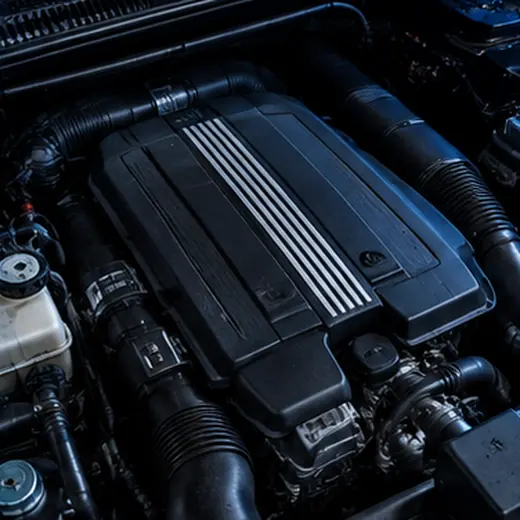
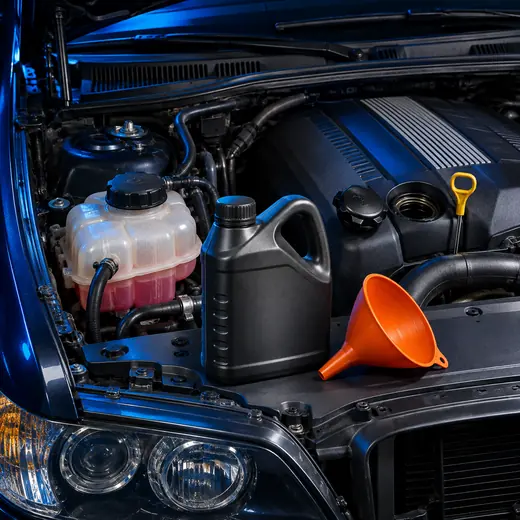
Miniatury części i narzędzi z planszy 8×8, kafel Przeglądy i płyny
Claude-Session: https://claude.ai/code/session_01MBC5hNd6Y88i3H4KXZj5bA

diff --git a/sw.js b/sw.js
@@ -1,8 +1,8 @@
 // Service worker: aplikacja działa offline po pierwszym wejściu.
 // Lista plików i wersja są aktualizowane przez tools/build.py (nie edytuj ręcznie między znacznikami).
 const OFFLINE = 'offline-24h';
-const VERSION = 'warsztat-/*V*/11f1ebcd46/*ENDV*/';
-const FILES = /*FILES*/["./", "css/app.css", "data/packs/bmw-e53/catalog.json", "data/packs/bmw-e53/pack.json", "data/packs/bmw-e53/repairs/klamka-wewn.json", "data/packs/bmw-e53/repairs/klamka-zewn-przod.json", "data/packs/bmw-e53/repairs/klamka-zewn-tyl.json", "data/packs/bmw-e53/repairs/lusterko-szklo.json", "data/packs/bmw-e53/repairs/lusterko-wymiana.json", "data/packs/bmw-e53/repairs/okno-podnosnik-przod.json", "data/packs/bmw-e53/repairs/okno-podnosnik-tyl.json", "data/packs/bmw-e53/repairs/okno-silnik.json", "data/packs/bmw-e53/repairs/okno-szyba.json", "data/packs/bmw-e53/repairs/silownik-zamka-przod.json", "data/packs/bmw-e53/repairs/tapicerka-przod.json", "data/packs/bmw-e53/repairs/tapicerka-tyl.json", "data/packs/bmw-e53/repairs/uszczelka-obwodowa.json", "data/packs/bmw-e53/repairs/uszczelka-szyby.json", "data/packs.json", "eslint.config.mjs", "icons/apple-touch-icon.png", "icons/icon-192.png", "icons/icon-512.png", "icons/icon-maskable-512.png", "img/doors/e53-front-r.webp", "img/doors/e53-front.webp", "img/doors/e53-rear-r.webp", "img/doors/e53-rear.webp", "img/ui/garaz-e53.webp", "img/ui/start-e53.webp", "img/ui/studio.webp", "img/x5-e53.webp", "img/zones/e53-doors.webp", "img/zones/e53-hood.webp", "img/zones/e53-interior.webp", "img/zones/e53-service.webp", "img/zones/e53-tail.webp", "img/zones/e53-under.webp", "img/zones/e53-wheels.webp", "index.html", "js/art-car.js", "js/art-door.js", "js/backup.js", "js/book-ui.js", "js/catalog.js", "js/data.js", "js/icons.js", "js/install.js", "js/logo.js", "js/main.js", "js/media.js", "js/merge.js", "js/offline-ui.js", "js/offline.js", "js/photos.js", "js/plan.js", "js/prefs.js", "js/router.js", "js/safety.js", "js/screens/add.js", "js/screens/book.js", "js/screens/car.js", "js/screens/garage.js", "js/screens/home.js", "js/screens/more.js", "js/screens/plan.js", "js/screens/repair.js", "js/screens/repairs.js", "js/screens/search.js", "js/screens/sources.js", "js/screens/sync.js", "js/screens/sys.js", "js/screens/zone.js", "js/search.js", "js/spin.js", "js/store.js", "js/timer-core.js", "js/timer.js", "js/ui.js", "js/vendor/jsqr.LICENSE", "js/vendor/jsqr.js", "js/vendor/qrcode.js", "js/zones-art.js", "manifest.webmanifest"]/*ENDFILES*/;
+const VERSION = 'warsztat-/*V*/088afa30e0/*ENDV*/';
+const FILES = /*FILES*/["./", "css/app.css", "data/packs/bmw-e53/catalog.json", "data/packs/bmw-e53/pack.json", "data/packs/bmw-e53/repairs/klamka-wewn.json", "data/packs/bmw-e53/repairs/klamka-zewn-przod.json", "data/packs/bmw-e53/repairs/klamka-zewn-tyl.json", "data/packs/bmw-e53/repairs/lusterko-szklo.json", "data/packs/bmw-e53/repairs/lusterko-wymiana.json", "data/packs/bmw-e53/repairs/okno-podnosnik-przod.json", "data/packs/bmw-e53/repairs/okno-podnosnik-tyl.json", "data/packs/bmw-e53/repairs/okno-silnik.json", "data/packs/bmw-e53/repairs/okno-szyba.json", "data/packs/bmw-e53/repairs/silownik-zamka-przod.json", "data/packs/bmw-e53/repairs/tapicerka-przod.json", "data/packs/bmw-e53/repairs/tapicerka-tyl.json", "data/packs/bmw-e53/repairs/uszczelka-obwodowa.json", "data/packs/bmw-e53/repairs/uszczelka-szyby.json", "data/packs.json", "eslint.config.mjs", "icons/apple-touch-icon.png", "icons/icon-192.png", "icons/icon-512.png", "icons/icon-maskable-512.png", "img/czesci.webp", "img/doors/e53-front-r.webp", "img/doors/e53-front.webp", "img/doors/e53-rear-r.webp", "img/doors/e53-rear.webp", "img/ui/garaz-e53.webp", "img/ui/start-e53.webp", "img/ui/studio.webp", "img/x5-e53.webp", "img/zones/e53-doors.webp", "img/zones/e53-hood.webp", "img/zones/e53-interior.webp", "img/zones/e53-service.webp", "img/zones/e53-tail.webp", "img/zones/e53-under.webp", "img/zones/e53-wheels.webp", "index.html", "js/art-car.js", "js/art-door.js", "js/backup.js", "js/book-ui.js", "js/catalog.js", "js/data.js", "js/icons.js", "js/install.js", "js/logo.js", "js/main.js", "js/media.js", "js/merge.js", "js/offline-ui.js", "js/offline.js", "js/photos.js", "js/plan.js", "js/prefs.js", "js/router.js", "js/safety.js", "js/screens/add.js", "js/screens/book.js", "js/screens/car.js", "js/screens/garage.js", "js/screens/home.js", "js/screens/more.js", "js/screens/plan.js", "js/screens/repair.js", "js/screens/repairs.js", "js/screens/search.js", "js/screens/sources.js", "js/screens/sync.js", "js/screens/sys.js", "js/screens/zone.js", "js/search.js", "js/spin.js", "js/store.js", "js/thumbs.js", "js/timer-core.js", "js/timer.js", "js/ui.js", "js/vendor/jsqr.LICENSE", "js/vendor/jsqr.js", "js/vendor/qrcode.js", "js/zones-art.js", "manifest.webmanifest"]/*ENDFILES*/;
 
 self.addEventListener('install', e => {
   e.waitUntil(caches.open(VERSION).then(c => Promise.all(FILES.map(f => fetch(new Request(f, { cache: 'reload' })).then(r => { if (!r.ok) throw new Error(f); return c.put(f, r); })))).then(() => self.skipWaiting()));

diff --git a/js/screens/plan.js b/js/screens/plan.js
@@ -4,6 +4,7 @@ import { bindOffline, offlineCardHtml } from '../offline-ui.js';
 import { icon } from '../icons.js';
 import { getPack, getRepair, matchPack } from '../data.js';
 import { aggregatePlan, orderHint, planText } from '../plan.js';
+import { THUMB_NOTE, thumb } from '../thumbs.js';
 import * as S from '../store.js';
 
 /* ---------- DZISIAJ ROBIĘ: wybór kilku napraw → jedna lista zakupów i narzędzi ---------- */
@@ -41,9 +42,10 @@ async function planScreen() {
       ${hint ? `<div class="note info" style="margin-top:12px">${icon('info', 22)}<div><b>Kolejność prac</b><p>${esc(hint)}</p></div></div>` : ''}
       ${repairs.length ? `
       <div class="section-h">${icon('list', 16)} Lista zakupów <span class="count">${agg.parts.filter(p => bought[p.oe || p.name]).length} z ${agg.parts.length}</span></div>
-      <div class="card"><div class="kv">${agg.parts.map(p => `<div class="plpart shop ${bought[p.oe || p.name] ? 'done' : ''}"><button class="cbox" data-buy="${esc(p.oe || p.name)}" role="checkbox" aria-checked="${!!bought[p.oe || p.name]}" aria-label="Kupione: ${esc(p.name)}">${icon('check', 16)}</button><span><b>${esc(p.name)}</b><small>${p.oe ? esc(p.oe.replace(/(\d{2})(\d{2})(\d)(\d{3})(\d{3})/, '$1 $2 $3 $4 $5')) : 'numer do potwierdzenia po VIN'}${p.from.length > 1 ? ' · potrzebne w ' + p.from.length + ' naprawach' : ''}</small></span>${p.oe ? `<button class="btn small" data-copy="${esc(p.oe)}">${icon('copy', 14)}</button>` : ''}</div>`).join('') || '<div class="pad" style="padding:14px;color:var(--muted)">Brak części na liście.</div>'}</div></div>
+      <div class="card"><div class="kv">${agg.parts.map(p => `<div class="plpart shop ${bought[p.oe || p.name] ? 'done' : ''}"><button class="cbox" data-buy="${esc(p.oe || p.name)}" role="checkbox" aria-checked="${!!bought[p.oe || p.name]}" aria-label="Kupione: ${esc(p.name)}">${icon('check', 16)}</button>${thumb(p.name)}<span><b>${esc(p.name)}</b><small>${p.oe ? esc(p.oe.replace(/(\d{2})(\d{2})(\d)(\d{3})(\d{3})/, '$1 $2 $3 $4 $5')) : 'numer do potwierdzenia po VIN'}${p.from.length > 1 ? ' · potrzebne w ' + p.from.length + ' naprawach' : ''}</small></span>${p.oe ? `<button class="btn small" data-copy="${esc(p.oe)}">${icon('copy', 14)}</button>` : ''}</div>`).join('') || '<div class="pad" style="padding:14px;color:var(--muted)">Brak części na liście.</div>'}</div></div>
       <div class="section-h">${icon('wrench', 16)} Narzędzia <span class="count">${agg.tools.length}</span></div>
-      <div class="card"><div class="kv">${agg.tools.map(t => `<div class="plpart"><span><b>${esc(t.name)}</b><small>${esc(t.note || '')}</small></span><span class="need ${t.need}">${needLbl[t.need] || ''}</span></div>`).join('')}</div></div>
+      <div class="card"><div class="kv">${agg.tools.map(t => `<div class="plpart">${thumb(t.name)}<span class="pgrow"><b>${esc(t.name)}</b><small>${esc(t.note || '')}</small></span><span class="need ${t.need}">${needLbl[t.need] || ''}</span></div>`).join('')}</div></div>
+      <p class="foot">${THUMB_NOTE}</p>
       <button class="btn block" id="pl-copy" style="margin-top:12px">${icon('copy', 18)} Kopiuj całą listę</button>
       ${offlineCardHtml('plan na dziś')}
       <button class="btn ghost block" id="pl-clear">Wyczyść plan</button>` : ''}

diff --git a/js/screens/repair.js b/js/screens/repair.js
@@ -10,6 +10,7 @@ import { openTimerSheet, suggestMinutes } from '../timer.js';
 import { addPhoto, compressImage, deletePhoto, hasDB, listPhotos } from '../photos.js';
 import { openEntrySheet } from '../book-ui.js';
 import { safetyItems } from '../safety.js';
+import { THUMB_NOTE, thumb } from '../thumbs.js';
 import * as S from '../store.js';
 
 let deckSeq = 0; // numer ostatnio zamontowanej talii (stare nasłuchy nie mogą wyłączać zasobów nowej)
@@ -79,14 +80,15 @@ async function repairScreen(carId, rid, q) {
   cards.push({ label: 'Narzędzia', html: `
     <div class="dk-meta"><span class="dk-pill">Przygotowanie</span><span class="dk-pill" id="toolcount"></span></div>
     <h2 class="dk-h2">Narzędzia do odhaczenia</h2>
-    <div class="dk-checks" id="tools">${rep.tools.map((t, i) => `<button class="dk-check ${prog.tools[i] ? 'done' : ''}" data-tool="${i}" role="checkbox" aria-checked="${!!prog.tools[i]}"><span class="cbox">${icon('check', 16)}</span><span class="cname"><b>${esc(t.name)}</b>${t.note ? `<small>${esc(t.note)}</small>` : ''}</span><span class="need ${t.need}">${needLbl[t.need] || ''}</span></button>`).join('')}</div>` });
+    <div class="dk-checks" id="tools">${rep.tools.map((t, i) => `<button class="dk-check ${prog.tools[i] ? 'done' : ''}" data-tool="${i}" role="checkbox" aria-checked="${!!prog.tools[i]}"><span class="cbox">${icon('check', 16)}</span>${thumb(t.name)}<span class="cname"><b>${esc(t.name)}</b>${t.note ? `<small>${esc(t.note)}</small>` : ''}</span><span class="need ${t.need}">${needLbl[t.need] || ''}</span></button>`).join('')}</div>` });
 
   if ((rep.parts || []).length) cards.push({ label: 'Części', html: `
     <div class="dk-meta"><span class="dk-pill">Przygotowanie</span></div>
     <h2 class="dk-h2">Części do kupienia</h2>
-    <div class="dk-parts">${rep.parts.map(p => { const c = CONF[p.conf] || CONF.low; return `<div class="dk-part"><div class="ph"><b>${esc(p.name)}</b><span class="conf ${c[0]}"><i></i>${p.conf === 'high' ? 'Potwierdzone' : p.conf === 'med' ? 'Jedno źródło' : 'Do sprawdzenia'}</span></div>
+    <div class="dk-parts">${rep.parts.map(p => { const c = CONF[p.conf] || CONF.low; return `<div class="dk-part"><div class="ph">${thumb(p.name)}<b>${esc(p.name)}</b><span class="conf ${c[0]}"><i></i>${p.conf === 'high' ? 'Potwierdzone' : p.conf === 'med' ? 'Jedno źródło' : 'Do sprawdzenia'}</span></div>
       ${p.oe ? `<div class="oe"><code>${esc(p.oe.replace(/(\d{2})(\d{2})(\d)(\d{3})(\d{3})/, '$1 $2 $3 $4 $5'))}</code><button class="btn small" data-copy="${esc(p.oe)}">${icon('copy', 15)} Kopiuj</button></div>` : '<div class="oe"><small>Numer do potwierdzenia po VIN</small></div>'}
       <p>${esc(p.note || '')}${p.price ? ` <em>${esc(p.price)}</em>` : ''}</p>${p.alt ? `<p class="alts">${p.alt.map(a => `${esc(a.brand)} ${esc(a.no)}`).join(' · ')}</p>` : ''}</div>`; }).join('')}</div>
+    <p class="dk-foot">${THUMB_NOTE}</p>
     <button class="btn block" id="shop">${icon('copy', 18)} Kopiuj listę części i narzędzi</button>` });
 
   if (films.length) cards.push({ label: 'Filmy', html: `

diff --git a/js/screens/repairs.js b/js/screens/repairs.js
@@ -3,6 +3,7 @@ import { $$, copy, dots, esc, fmtTime, topbar } from '../ui.js';
 import { icon } from '../icons.js';
 import { getCatalog, getPack, getRepair, matchPack } from '../data.js';
 import { aggregatePlan } from '../plan.js';
+import { THUMB_NOTE, thumb } from '../thumbs.js';
 import * as S from '../store.js';
 
 /* ---------- NAPRAWY: lista kart, części z całej paczki, katalog stref ---------- */
@@ -28,7 +29,7 @@ async function repairsScreen(q) {
     const reps = (await Promise.all(pack.repairs.map(r => getRepair(pack.id, r.id).catch(() => null)))).filter(Boolean);
     const { parts } = aggregatePlan(reps);
     count = `${parts.length} pozycji`;
-    body = `<div class="card"><div class="kv">${parts.map(p => `<div class="plpart"><span class="zi">${icon('part', 18)}</span><span class="pgrow"><b>${esc(p.name)}</b><small>${p.oe ? esc(fmtOe(p.oe)) : 'numer do potwierdzenia po VIN'}${p.from.length > 1 ? ' · w ' + p.from.length + ' naprawach' : ''}</small></span>${p.oe ? `<button class="btn small" data-copy="${esc(p.oe)}" aria-label="Kopiuj numer">${icon('copy', 14)}</button>` : ''}</div>`).join('')}</div></div><p class="foot">Numery bez potwierdzenia sprawdź po VIN przed zakupem. Poziom pewności każdej części jest na karcie naprawy.</p>`;
+    body = `<div class="card"><div class="kv">${parts.map(p => `<div class="plpart">${thumb(p.name) || `<span class="zi">${icon('part', 18)}</span>`}<span class="pgrow"><b>${esc(p.name)}</b><small>${p.oe ? esc(fmtOe(p.oe)) : 'numer do potwierdzenia po VIN'}${p.from.length > 1 ? ' · w ' + p.from.length + ' naprawach' : ''}</small></span>${p.oe ? `<button class="btn small" data-copy="${esc(p.oe)}" aria-label="Kopiuj numer">${icon('copy', 14)}</button>` : ''}</div>`).join('')}</div></div><p class="foot">Numery bez potwierdzenia sprawdź po VIN przed zakupem. Poziom pewności każdej części jest na karcie naprawy. ${THUMB_NOTE}</p>`;
   } else {
     const cat = await getCatalog(pack.id);
     count = `${cat.zones.reduce((n, z) => n + z.groups.reduce((m, g) => m + g.items.length, 0), 0)} pozycji`;

diff --git a/js/thumbs.js b/js/thumbs.js
@@ -1,0 +1,22 @@
+// Miniatury części i narzędzi: plansza 8×8 img/czesci.webp (kolejność pól: docs/projekt-graficzny/PLANSZE.md).
+// To ilustracje poglądowe, nie zdjęcia konkretnych części.
+const RULES = [
+  [/tuleja/i, 8], [/klamk\w* wewn|zamiennik uro/i, 0], [/mechanizm klamki/i, 2], [/klamka zewn/i, 1],
+  [/klips\w* listwy|klipsy uszczelki/i, 14], [/klips\w* szyby/i, 7], [/spink/i, 3],
+  [/szkło lusterka/i, 4], [/lusterko/i, 5], [/silnik podno/i, 10], [/podnośnik szyby/i, 6],
+  [/folia|pasta uszcz/i, 9], [/śruba sześciok/i, 11], [/siłownik zamka/i, 12],
+  [/uszczelka szczeliny/i, 16], [/listwa szczeliny/i, 17], [/uszczelka drzwi/i, 13], [/listwa progowa/i, 15],
+  [/kształcie litery u/i, 26], [/plastikowe łopatki/i, 18], [/łopatk\w* metal|metalowa łopatka/i, 33],
+  [/szerokie płaskie/i, 29], [/torx/i, 19], [/klucz nasadowy|klucz 8 mm/i, 20], [/taśma/i, 21],
+  [/opaska/i, 24], [/szczypce/i, 32], [/magnes/i, 28], [/śrubokręt|wkrętak/i, 22], [/sznurek/i, 23],
+  [/ostrze|nóż/i, 25], [/imbus/i, 27], [/ścierecz|szmat|ręcznik/i, 30], [/multimetr/i, 31],
+  [/młotek/i, 34], [/mydłem/i, 35], [/terpentyn/i, 36]
+];
+export function thumbCell(name) { const r = RULES.find(([re]) => re.test(name || '')); return r ? r[1] : -1; }
+export function thumb(name) {
+  const n = thumbCell(name);
+  if (n < 0) return '';
+  const pos = c => (c * 100 / 7).toFixed(3) + '%';
+  return `<span class="th" role="img" aria-label="Ilustracja poglądowa" style="background-position:${pos(n % 8)} ${pos(Math.floor(n / 8))}"></span>`;
+}
+export const THUMB_NOTE = 'Miniatury to ilustracje poglądowe, nie zdjęcia tej konkretnej części. Przy zakupie liczy się numer części.';

diff --git a/css/app.css b/css/app.css
@@ -1054,3 +1054,11 @@ body.in-deck #timerpill { top: auto; bottom: calc(var(--sab) + 96px); }
 .hs.photo .hs-stage { height: calc(var(--hw) * 1.29 - 196px); }
 .sys.pic:last-child:nth-child(3n+1) { grid-column: 1 / -1; aspect-ratio: 3 / 1; background-position: center 60%; }
 .sys.pic::before { background: linear-gradient(to top, rgba(8,19,33,.96) 26%, rgba(8,19,33,.12) 70%); }
+
+/* miniatury części i narzędzi (plansza 8×8) */
+.th { display: block; flex: none; width: 44px; height: 44px; border-radius: 10px; background: #0a1626 url(../img/czesci.webp) 0 0 / 800% 800% no-repeat; border: 1px solid rgba(148,190,240,.18); }
+.plpart { gap: 12px; } .plpart > span:not(.th):not(.zi):not(.need) { flex: 1; min-width: 0; }
+.dk-part .ph { align-items: center; justify-content: flex-start; gap: 10px; } .dk-part .ph b { flex: 1; min-width: 0; }
+.dk-check .th { width: 40px; height: 40px; }
+.plpart.shop > span.th { flex: none; width: 44px; }
+.plpart.shop > span:not(.th) { flex: 1; min-width: 0; }

diff --git a/KONTYNUACJA.md b/KONTYNUACJA.md
@@ -35,7 +35,7 @@ js/spin.js, art-car.js                    widok 360° auta i kropki stref
 js/vendor/                                qrcode, jsqr (nie ruszać, lint je pomija)
 data/packs/bmw-e53/                       pack.json (źródła, indeks napraw), catalog.json (strefy, grupy, pozycje), repairs/*.json (karty napraw)
 img/                                      klatki 360° (img/spin), zdjęcia drzwi (img/doors), ikony
-tests/*.test.mjs                          testy Node (27)
+tests/*.test.mjs                          testy Node (30)
 tools/build.py, smoke.py, lint.sh         walidacja i testy
 docs/                                     dokumentacja (status, standard, architektura, diagnostyka)
 docs/diag/                                szkielet schematu diagnostyki i słownik objawów (jeszcze niepodłączone do aplikacji)
@@ -64,7 +64,7 @@ Właściciel jest wymagający i konkretny. Pisze po polsku. Te zasady powtarzał
 **Adres:** https://lewym90.github.io/warsztat/. Ostatnie commity: `40fc9e5` (ekran Źródła), `4dfda95` (7 nowych kart Drzwi, opisy katalogu, szkielet diagnostyki).
 
 ### 3.0 Szata graficzna WARSZTAT (2026-11-04)
-Projekt właściciela: `docs/projekt-graficzny/` (specyfikacja, projekt ekranów, źródło ikony). Styl Dark Luxury: ciemny motyw domyślny (migracja `prefs.skin`), jasny i auto do wyboru. Paleta w tokenach na początku `css/app.css`, warstwa projektowa na końcu pliku. Ekrany: Start (`js/screens/home.js`, trasa `#/`), Garaż przeniesiony na `#/garage`, Naprawy z zakładkami Naprawy/Części/Katalog i Diagnostyka (`js/screens/repairs.js`), lista zakupów z odhaczaniem w planie (`plan.bought`). Dolna nawigacja: Start, Auto, Naprawy, Plan, Więcej. Auto bieżące: `S.currentCar()`. Przycisk „Zalicz krok” tylko przesuwa talię (postęp nadal = pozycja talii). Grafiki (generowane przez właściciela): `img/ui/` (Start, garaż, studio 360°), `img/zones/` (kafle stref, mapa w `js/zones-art.js`); klatki 360° mają wycięte tło (przezroczyste webp). Kafel Przeglądy to tymczasowo wycinek zdjęcia silnika. Prompty plansz: `docs/projekt-graficzny/PLANSZE.md`. Miniatury części (plansza 8×8) czekają na grafikę właściciela i mają być podpisane jako ilustracje poglądowe. Z makiety świadomie NIE przeniesiono: procentów pewności, numerów części i naprawy filtra paliwa (dane poglądowe bez źródeł).
+Projekt właściciela: `docs/projekt-graficzny/` (specyfikacja, projekt ekranów, źródło ikony). Styl Dark Luxury: ciemny motyw domyślny (migracja `prefs.skin`), jasny i auto do wyboru. Paleta w tokenach na początku `css/app.css`, warstwa projektowa na końcu pliku. Ekrany: Start (`js/screens/home.js`, trasa `#/`), Garaż przeniesiony na `#/garage`, Naprawy z zakładkami Naprawy/Części/Katalog i Diagnostyka (`js/screens/repairs.js`), lista zakupów z odhaczaniem w planie (`plan.bought`). Dolna nawigacja: Start, Auto, Naprawy, Plan, Więcej. Auto bieżące: `S.currentCar()`. Przycisk „Zalicz krok” tylko przesuwa talię (postęp nadal = pozycja talii). Grafiki (generowane przez właściciela): `img/ui/` (Start, garaż, studio 360°), `img/zones/` (kafle stref, mapa w `js/zones-art.js`); klatki 360° mają wycięte tło (przezroczyste webp). Prompty plansz: `docs/projekt-graficzny/PLANSZE.md`. Miniatury części i narzędzi: plansza 8×8 `img/czesci.webp`, przypisanie po nazwie w `js/thumbs.js` (test `tests/thumbs.test.mjs`), zawsze z podpisem „ilustracje poglądowe”. Pola 37–63 planszy czekają na kolejne karty. Z makiety świadomie NIE przeniesiono: procentów pewności, numerów części i naprawy filtra paliwa (dane poglądowe bez źródeł).
 
 ### 3.1 Funkcje aplikacji
 - **Garaż, ekran auta** z obrotowym widokiem 360° i kropkami stref (Drzwi, Maska i przód, Wnętrze, Klapa i tył, Koła/hamulce/zawieszenie, Progi/podwozie/napęd) + „Przeglądy i płyny”.
@@ -94,7 +94,7 @@ Katalog (`catalog.json`): 260 pozycji w 7 strefach. W Drzwiach 14 z 53 pozycji m
 - Cena i numery uszczelki obwodowej (51727025579): z jednej relacji z 2008 r.
 
 ### 3.4 Testy (stan na ostatni commit)
-27 testów Node przechodzi, eslint czysty, `build.py` bez błędów, `smoke.py` bez błędów aplikacji. W `smoke.py` zostają 4 wpisy `requestfailed` zdjęć z `stevedu.com` (piaskownica chmurowa nie ładuje obcych serwerów); to oczekiwane i filtrowane wśród „znanych”.
+30 testów Node przechodzi, eslint czysty, `build.py` bez błędów, `smoke.py` bez błędów aplikacji. W `smoke.py` zostają 4 wpisy `requestfailed` zdjęć z `stevedu.com` (piaskownica chmurowa nie ładuje obcych serwerów); to oczekiwane i filtrowane wśród „znanych”.
 
 ---
 
@@ -144,7 +144,7 @@ Commit i push: `git add -A && git commit -m "…" && git push origin HEAD:main`.
 ### Polecenia kontrolne (po każdej zmianie danych lub kodu)
 ```
 python3 tools/build.py                 # waliduje paczkę, odświeża indeks napraw, sourceUse/mediaCredits, sw.js (FILES i wersja)
-node --test tests/*.test.mjs           # 27 testów (podaj jawny glob)
+node --test tests/*.test.mjs           # 30 testów (podaj jawny glob)
 bash tools/lint.sh                     # eslint 9 w katalogu tymczasowym, ignoruje js/vendor
 python3 tools/smoke.py /tmp/shots      # Playwright (Chromium w piaskownicy), ~4 minuty
 ```
@@ -157,6 +157,7 @@ nieznane źródła w krokach, kotwice `focus` pasujące do `view`, numery OE (11
 Wzorzec jakości: `klamka-zewn-przod.json`. Pola karty: `id, title, subtitle, door (front|rear|both), completeness (pełne|częściowe|szkic), difficulty, time [min,max], summary, extras, tools [{name,note,need: must|should|opt}], parts [{name,oe,conf,note,src}], warnings [{lvl: danger|warn|info,t,b,src}], steps, after, unknown, related`.
 Krok: `phase, t, view (outer|card|inner|edge), focus [kotwice z js/art-door.js], min, conf, src, b, see, how [], mistakes [], check, tip, tools, warn, danger, link, media`. Fazy nazywaj tak, by montaż rozpoznawał `isAssembly` w `js/screens/repair.js` (faza zawiera „montaż/składanie/założ/test”, bez „demontaż/zdejm/wyjm”). Czas oczekiwania zapisuj słowami „odczekaj N minut”, wtedy pojawia się minutnik.
 Źródło w `pack.json → sources`: `{title, url, kind (instrukcja fabryczna|forum|artykuł|wideo|sklep|producent części|ogłoszenia…), authors?: [nicki]}`. Pozycja katalogu (`catalog.json`): `{t, id?, d? (front|rear), n?}`. Pole `n` to krótki opis objawów (wyszukiwany i pokazywany dla „Wkrótce”).
+Nowa część lub narzędzie w karcie: dopisz regułę miniatury w `js/thumbs.js`, jeśli test jej nie znajdzie.
 Pełny opis i proces: `docs/standard-naprawy.md`.
 
 ### Ograniczenia środowiska chmurowego
